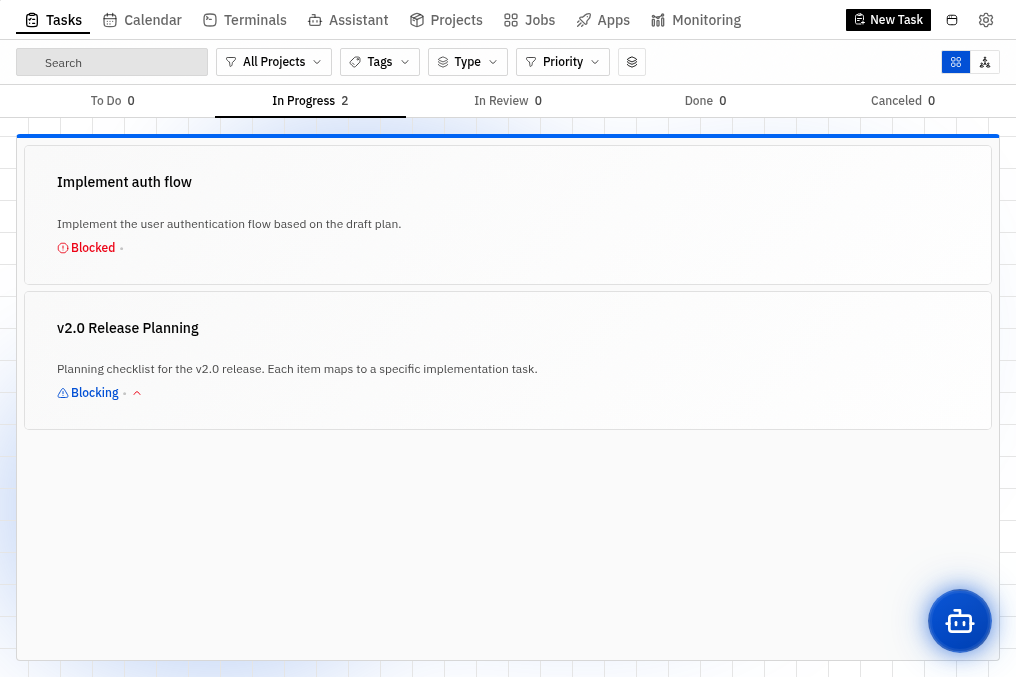
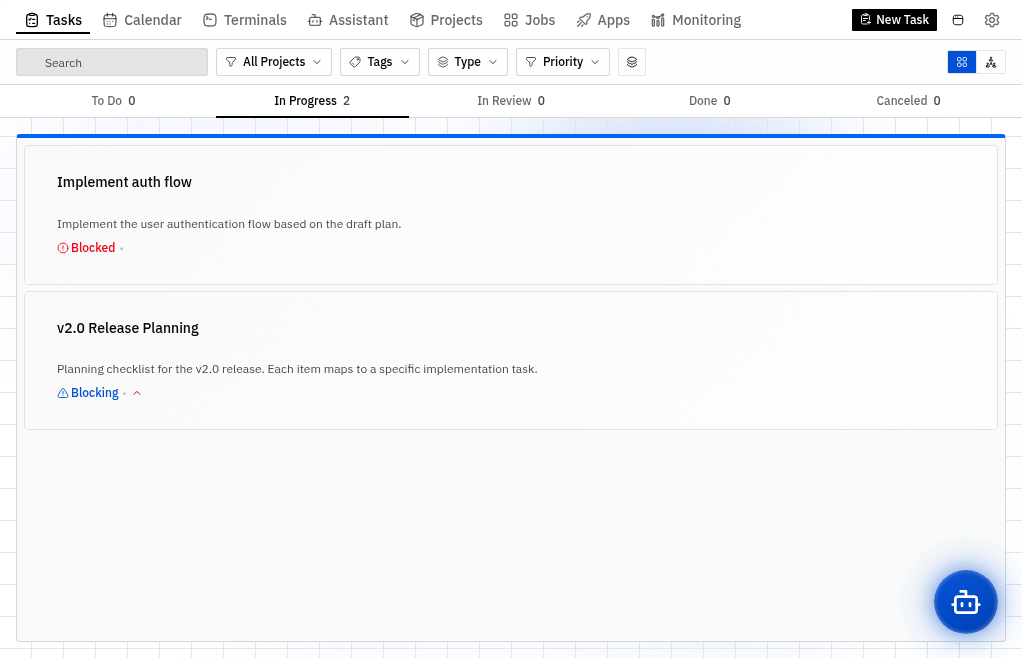
fix: integrate draft checklist into TaskContent card layout
Move DraftItemsChecklist from a separate raw div above TaskContent
into a proper card section inside TaskContent. Draft tasks now use
the same header + card layout as all other task types (rounded-lg
border bg-card). DraftTaskView simplified to match ManualTaskView.

via [HAPI](https://hapi.run)

diff --git a/frontend/components/task/task-content.tsx b/frontend/components/task/task-content.tsx
@@ -42,6 +42,7 @@ import { DeleteTaskDialog } from '@/components/delete-task-dialog'
 import { openExternalUrl } from '@/lib/editor-url'
 import { cn } from '@/lib/utils'
 import { PriorityPicker } from '@/components/task/priority-picker'
+import { DraftItemsChecklist } from '@/components/task/draft-items-checklist'
 import type { Task, TaskStatus, RecurrenceRule, TaskPriority } from '@/types'
 
 const STATUS_LABELS: Record<TaskStatus, string> = {
@@ -314,6 +315,14 @@ export function TaskContent({ task, onDeleted, compact }: TaskContentProps) {
       {/* Main Content */}
       <div className={`flex-1 overflow-auto ${compact ? 'p-4' : 'p-6'}`}>
         <div className={`${compact ? '' : 'mx-auto max-w-3xl'} ${spaceClass}`}>
+          {/* Draft Checklist — only for draft tasks */}
+          {task.type === 'draft' && (
+            <div className={`rounded-lg border bg-card ${paddingClass}`}>
+              <h2 className={`${headingClass} font-medium text-muted-foreground ${marginClass}`}>Checklist</h2>
+              <DraftItemsChecklist taskId={task.id} hasRepo={!!task.repositoryId} />
+            </div>
+          )}
+
           {/* Description */}
           <div className={`rounded-lg border bg-card ${paddingClass}`}>
             <div className={`flex items-center justify-between ${marginClass}`}>

diff --git a/frontend/components/task/draft-task-view.tsx b/frontend/components/task/draft-task-view.tsx
@@ -1,5 +1,4 @@
 import { TaskContent } from '@/components/task/task-content'
-import { DraftItemsChecklist } from '@/components/task/draft-items-checklist'
 import type { Task } from '@/types'
 
 interface DraftTaskViewProps {
@@ -9,12 +8,7 @@ interface DraftTaskViewProps {
 export function DraftTaskView({ task }: DraftTaskViewProps) {
   return (
     <div className="flex h-full min-h-0 flex-col">
-      <div className="flex-1 overflow-y-auto">
-        <div className="p-4 space-y-6">
-          <DraftItemsChecklist taskId={task.id} hasRepo={!!task.repositoryId} />
-        </div>
-        <TaskContent task={task} />
-      </div>
+      <TaskContent task={task} />
     </div>
   )
 }

diff --git a/frontend/components/task/draft-items-checklist.tsx b/frontend/components/task/draft-items-checklist.tsx
@@ -83,9 +83,9 @@ export function DraftItemsChecklist({ taskId, hasRepo }: DraftItemsChecklistProp
 
   return (
     <div className="space-y-2">
-      {/* Header */}
-      <div className="flex items-center justify-between px-1">
-        <span className="text-sm font-medium text-muted-foreground">
+      {/* Progress + sync */}
+      <div className="flex items-center justify-between">
+        <span className="text-xs text-muted-foreground">
           {completedCount}/{items.length} completed
         </span>
         {hasRepo && unsyncedCount > 0 && (
